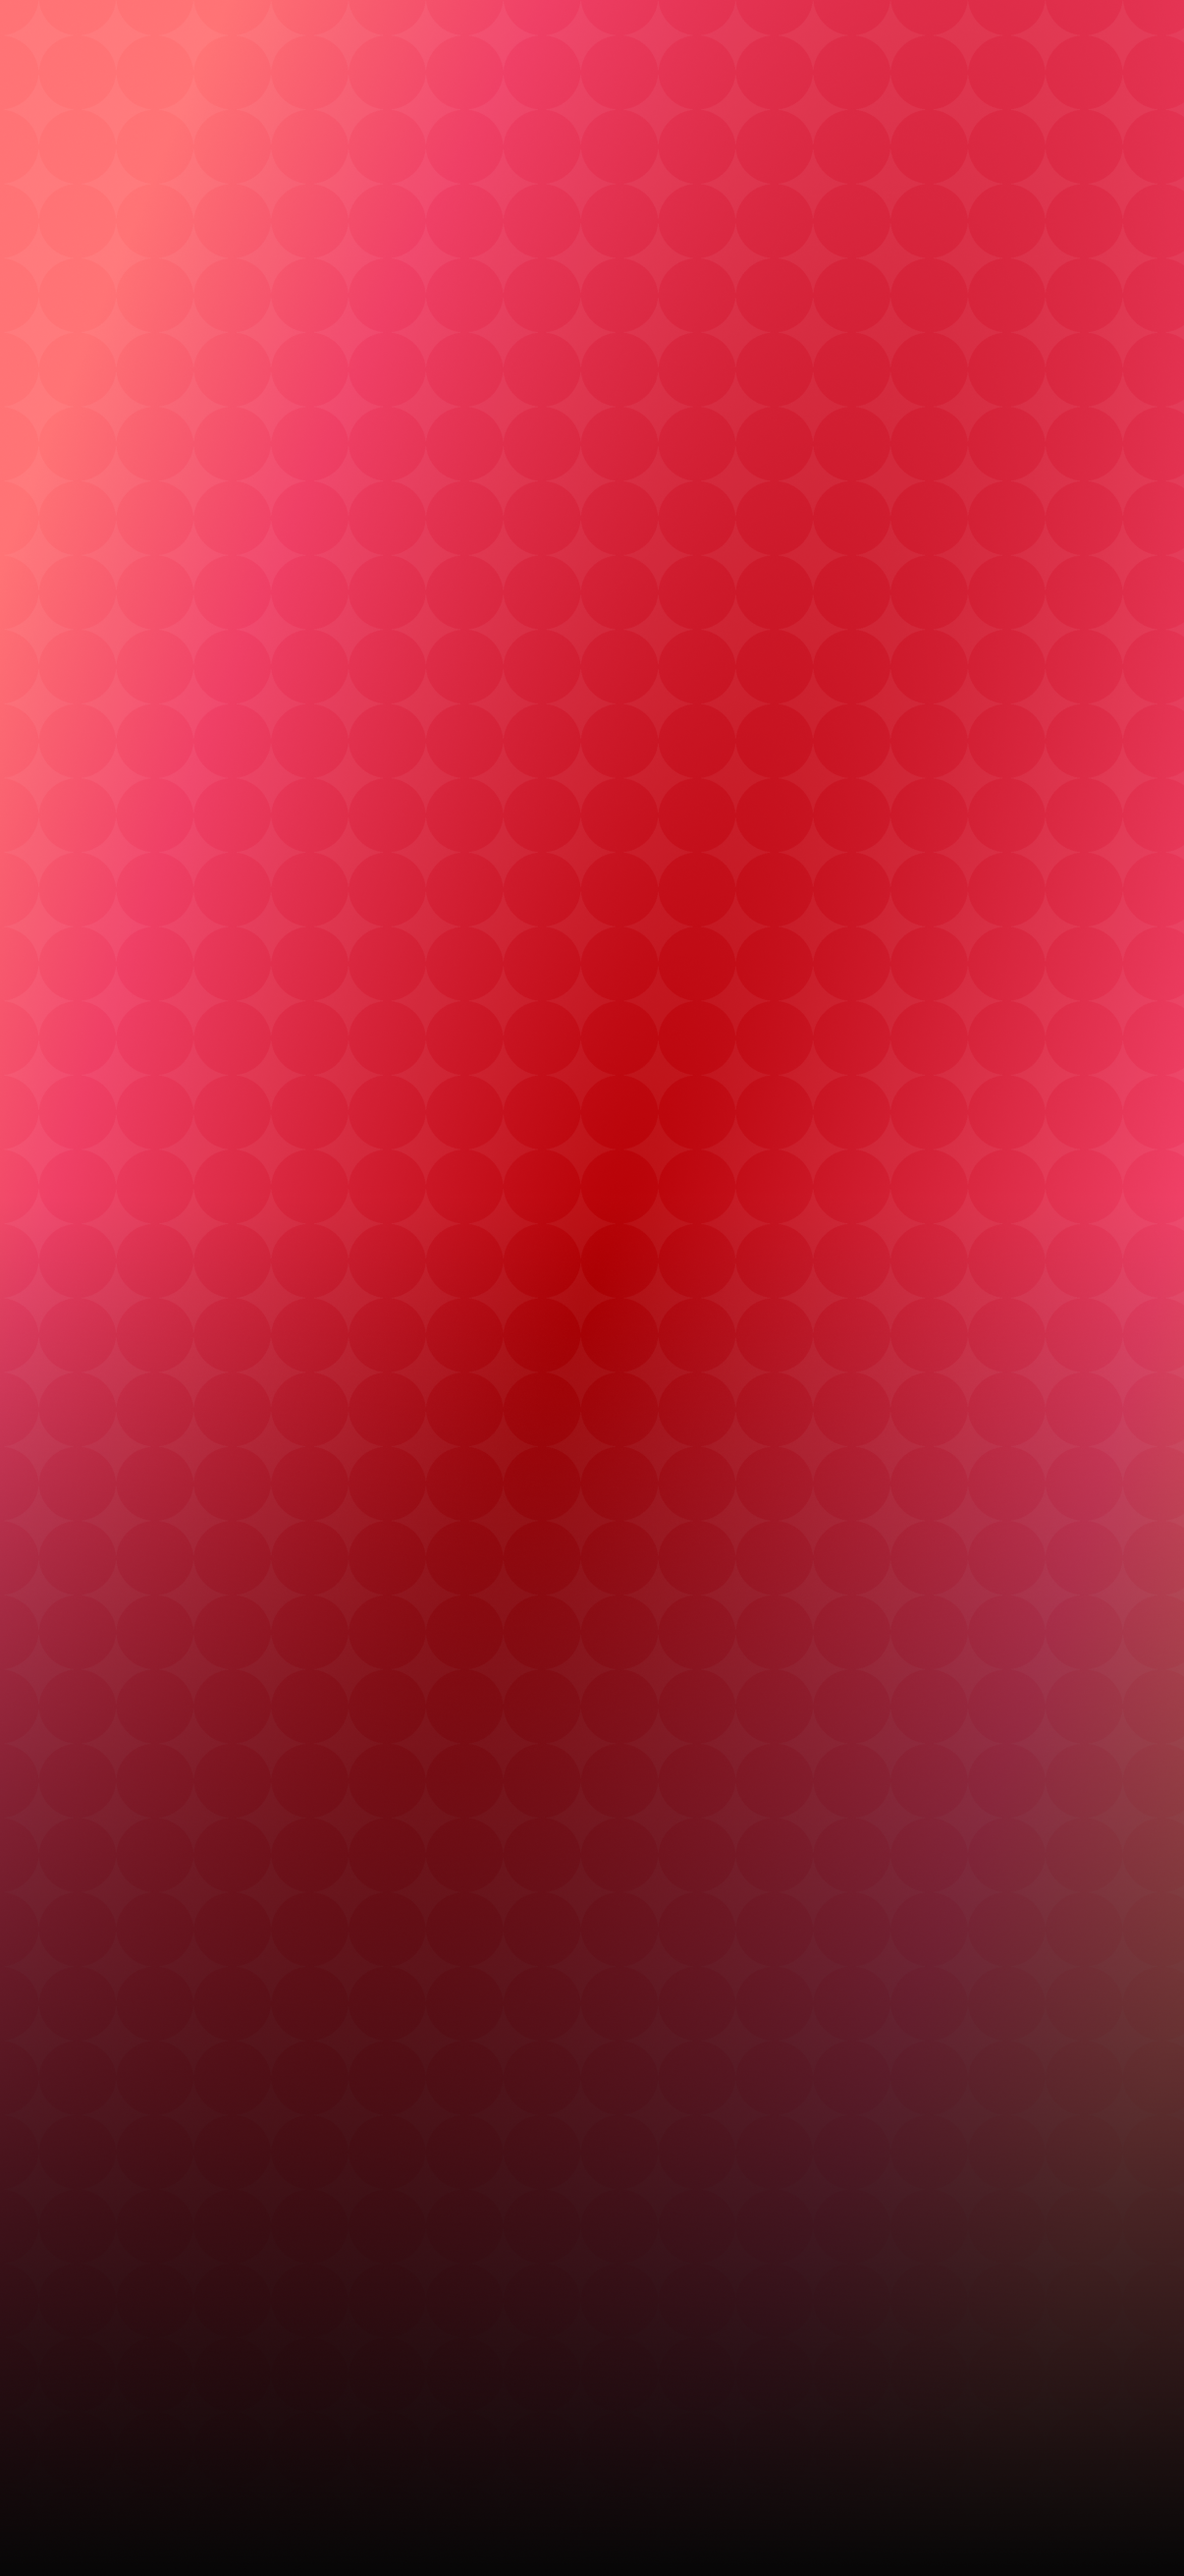
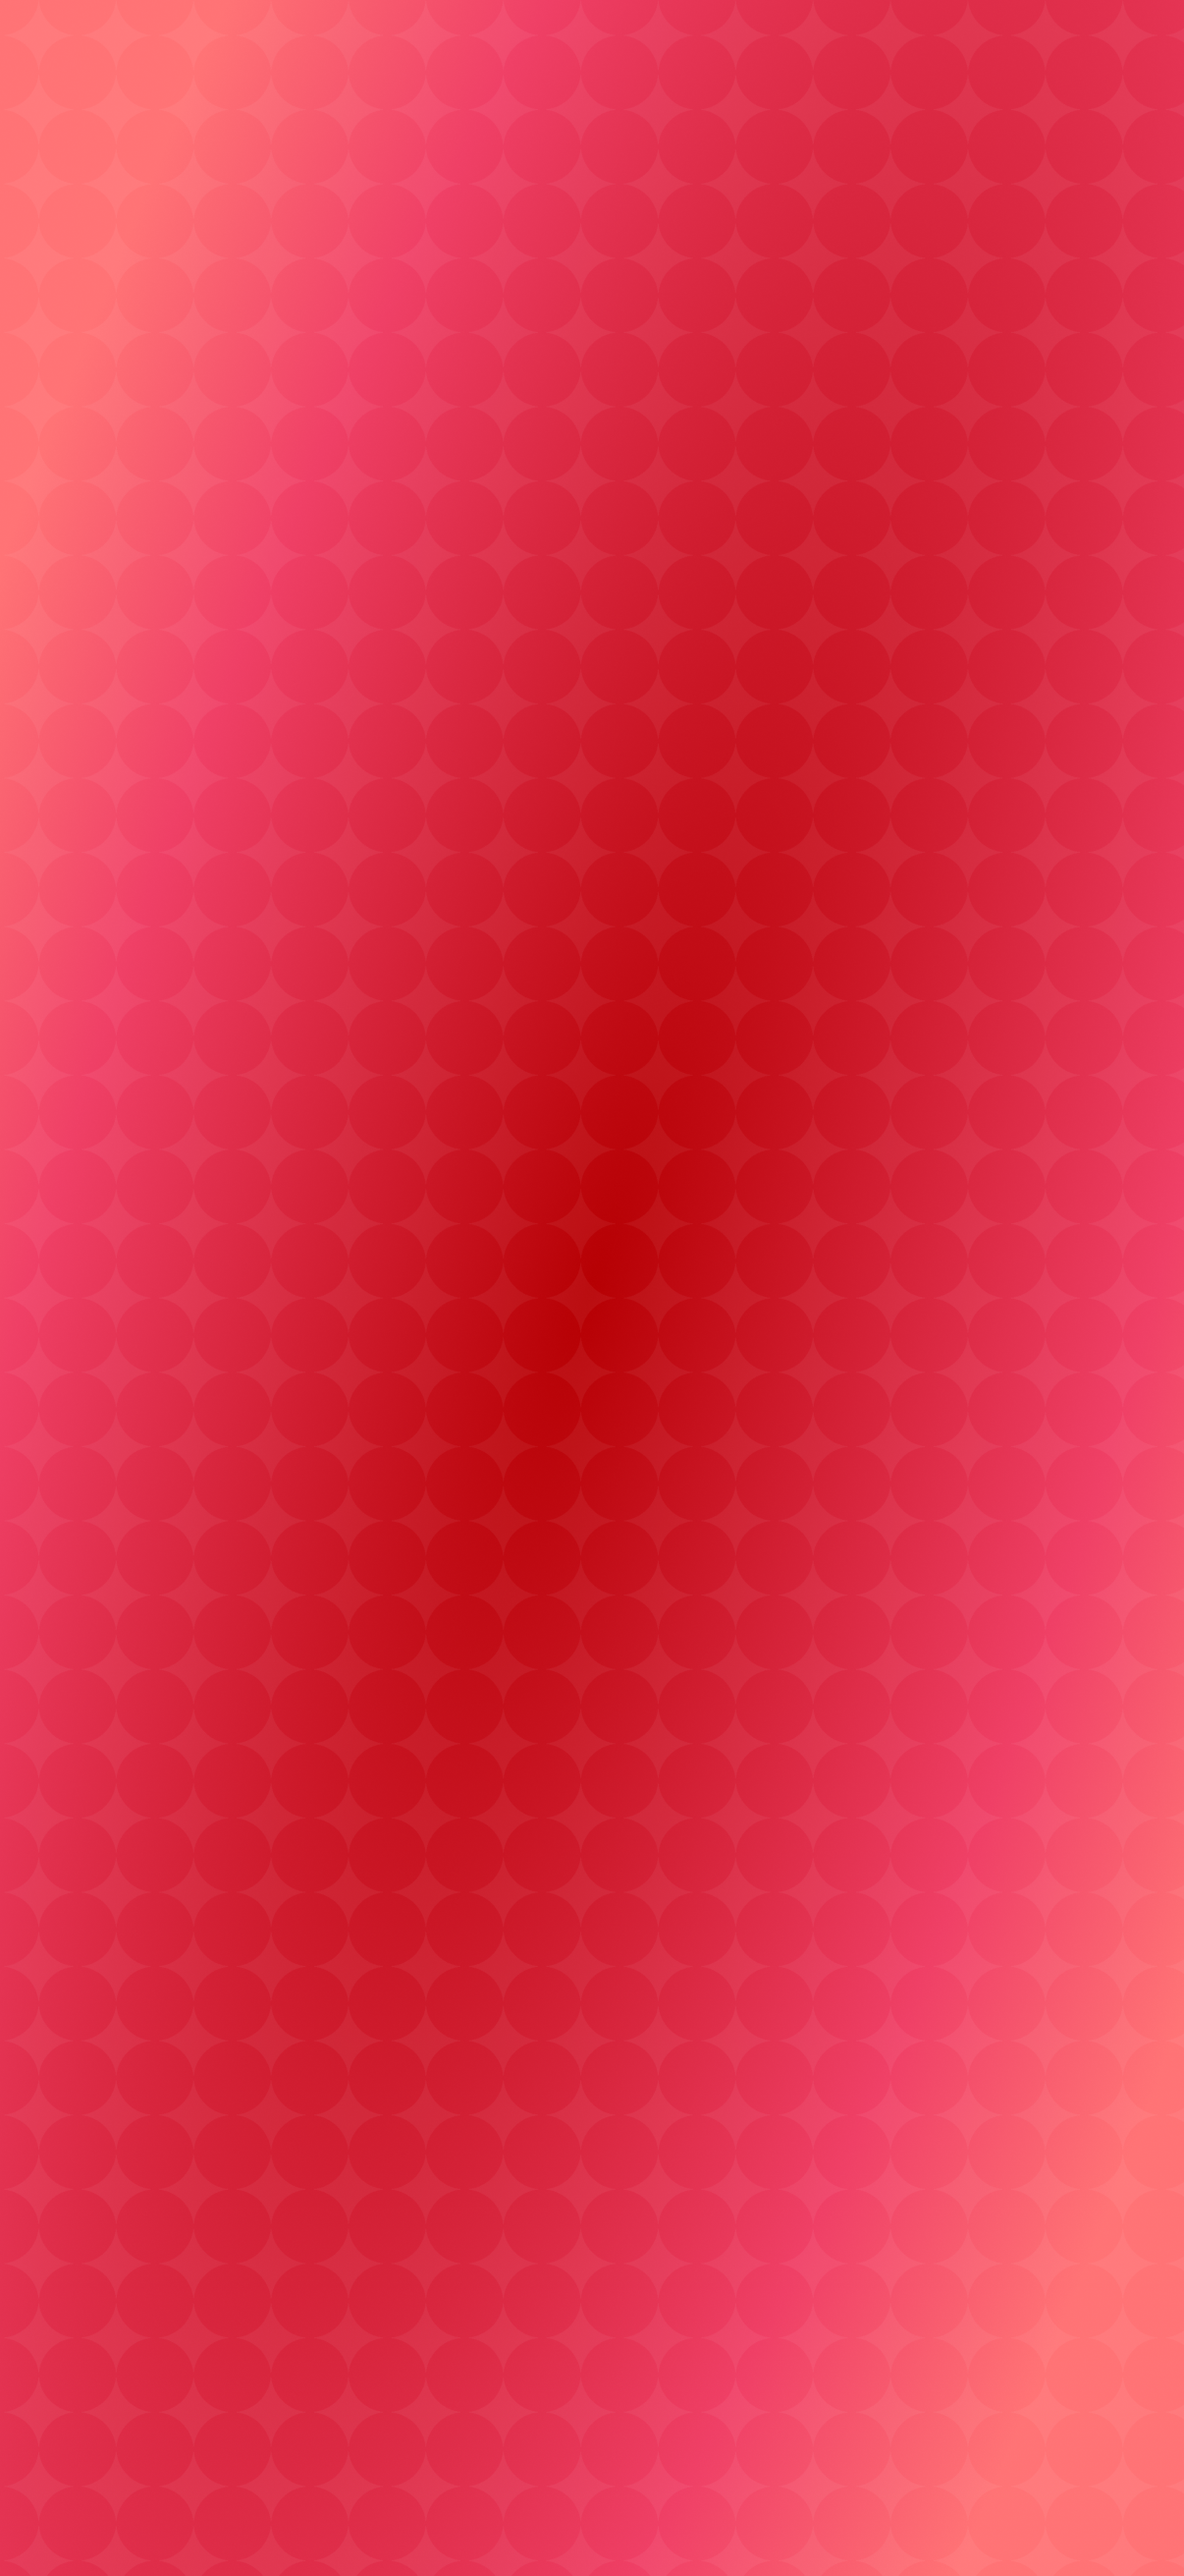
Changing the background for the 1) KindaSusView 2) KindaTruthView 3)VeryTruthView

diff --git a/Sanscore/Sanscore/SanscoreiOS/Views/Results/KindaTruthView.swift b/Sanscore/Sanscore/SanscoreiOS/Views/Results/KindaTruthView.swift
@@ -61,7 +61,7 @@ struct KindaTruthView: View {
     var body: some View {
         ZStack {
             // Background
-            Image("result-yellow-bg")
+            Image("result-yellow-bg 1")
                 .resizable()
                 .scaledToFill()
                 .ignoresSafeArea()

diff --git a/Sanscore/Sanscore/SanscoreiOS/Views/Results/KindaSusView.swift b/Sanscore/Sanscore/SanscoreiOS/Views/Results/KindaSusView.swift
@@ -61,7 +61,7 @@ struct KindaSusView: View {
     var body: some View {
         ZStack {
             // Background
-            Image("result-orange-bg")
+            Image("result-orange-bg 1")
                 .resizable()
                 .scaledToFill()
                 .ignoresSafeArea()

diff --git a/Sanscore/Sanscore/SanscoreiOS/Views/Results/VeryTruthView.swift b/Sanscore/Sanscore/SanscoreiOS/Views/Results/VeryTruthView.swift
@@ -61,7 +61,7 @@ struct VeryTruthView: View {
     var body: some View {
         ZStack {
             // Background
-            Image("result-green-bg")
+            Image("result-green-bg 1")
                 .resizable()
                 .scaledToFill()
                 .ignoresSafeArea()
